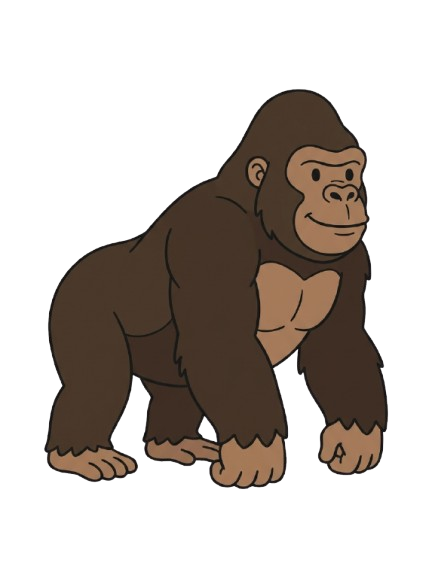
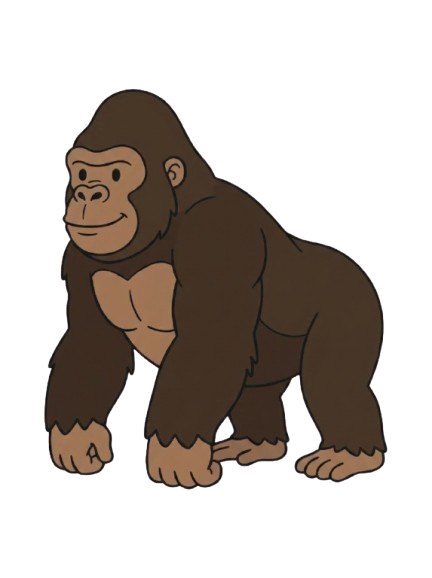
Revision #2

Changed region(s): [[0.0903, 0.1557, 0.9028, 0.872]]

diff --git a/script.js b/script.js
@@ -61,8 +61,9 @@ const CONFIG = {
         groundOffset: 0,
 
         hitboxPaddingX: 50,
-        hitboxPaddingY: 50
+        hitboxPaddingY: 50,
 
+       
     },      
 
 
